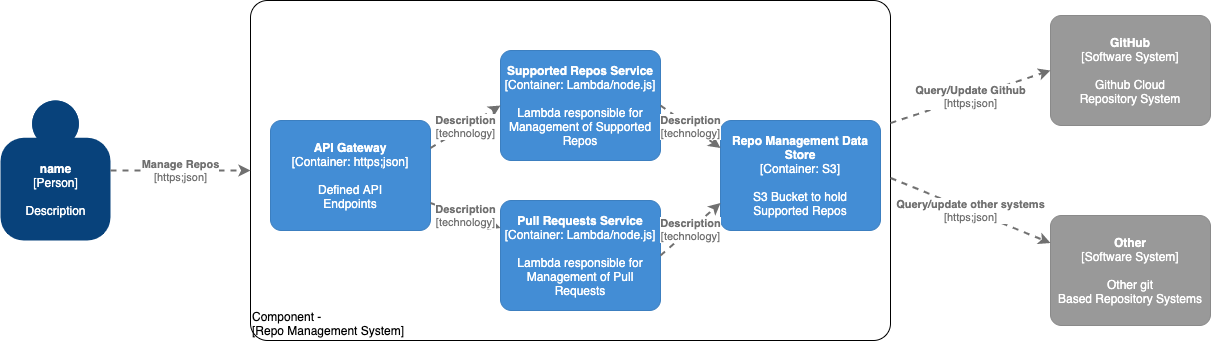
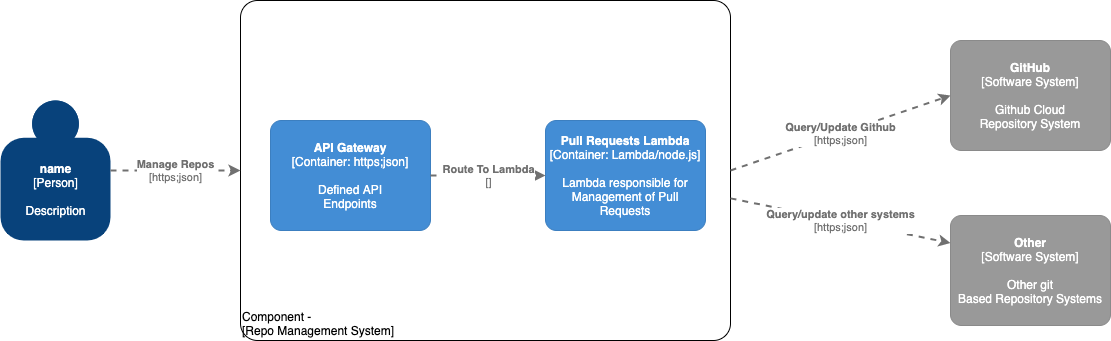
chore(documentation): updating readme Adding Updated container diagram and overview for component diagram

diff --git a/README.md b/README.md
@@ -10,11 +10,17 @@ The system has been designed with the intention of being able to support multipl
 
 ![Context Diagram](/design/images/Context.png)
 
+### Container Diagram
+![Container Diagram](/design/images/Container.png)
+
+#### Overview
+While the potential usages of the system are broad, we are focusing on a very small slice of that potential. For version 1.0.0, we will focus exclusively on pull requests, specifically aggregating all open pull requests. We will implement this functionality against github, but will build out the infrastructure that will allow users to query against multiple repos, in addition to informing the users of which repos are supported. We will focus on public repos for now, so we will not need to support private repositories for this release.
+
 ### Component Diagram
 ![Component Diagram](/design/images/Component.png)
 
 #### Overview
-While the potential usages of the system are broad, we are focusing on a very small slice of that potential. For version 1.0.0, we will focus exclusively on pull requests, specifically aggregating all open pull requests. We will implement this functionality against github, but will build out the infrastructure that will allow users to query against multiple repos, in addition to informing the users of which repos are supported. We will focus on public repos for now, so we will not need to support private repositories for this release.
+Digging into the Container diagram a bit deeper, we can see the mix of services and technologies to be employed in this particular implementation of the project. There is a Common module that will be able to be reused across future services, and a module dedicated solely to pull-requests. There is built in support for adding another source host (e.g. gitlab) without needing to add a lo of branching logic to the service responsible for managing the pull requests. 
 
 #### High Level Design
 We will employ a serverless architecture, using AWS Cloud Native Tools: API Gateway, Lambda, and S3. 
